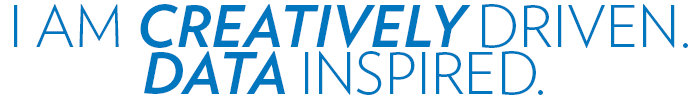
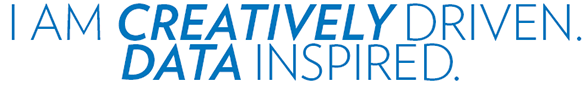
cambio de tagline y wunderlogo

diff --git a/dataportrait/static/js/animationv2.js b/dataportrait/static/js/animationv2.js
@@ -6,11 +6,8 @@ var ctx2;
 var ctx3;
 var WIDTH = 900;
 var HEIGHT = 900;
-/* image is always square 
-if(window.innerWidth < WIDTH){
-    WIDTH = window.innerWidth;
-    HEIGHT = window.innerWidth;
-}*/
+var MAXSCREENWIDTH = 900;
+var padding = 20;
 var layerCount = 5;
 var loadedImages = 0;
 
@@ -22,25 +19,25 @@ var pos1 = [0, 0];
 
 //second layer
 var layer2Img = new Image();
-layer1Img.onload = synchedInit;
+layer2Img.onload = synchedInit;
 layer2Img.src = layer3Src;
 var pos2 = [0, 0];
 
 //third layer
 var layer3Img = new Image();
-layer1Img.onload = synchedInit;
+layer3Img.onload = synchedInit;
 layer3Img.src = layer4Src;
 var pos4 = [0, 0];
 
 //fourth layer Opacity animation
 var layer4Img = new Image();
-layer1Img.onload = synchedInit;
+layer4Img.onload = synchedInit;
 layer4Img.src = layer2Src;
 var op4 = 0;
 
 //fifth layer
 var layer5Img = new Image();
-layer1Img.onload = synchedInit;
+layer5Img.onload = synchedInit;
 layer5Img.src = layer5Src;
 var op5 = 0;
 
@@ -55,21 +52,56 @@ function synchedInit(){
 function init() {
     layer1 = document.getElementById("layer1");
     ctx1 = layer1.getContext("2d");
-    pos1 = [0, layer1.height]
 
     layer2 = document.getElementById("layer2");
     ctx2 = layer2.getContext("2d");
-    pos2 = [0, -layer2.height]
 
     layer3 = document.getElementById("layer3");
     ctx3 = layer3.getContext("2d");
-    pos3 = [0, -layer3.height]
 
     layer4 = document.getElementById("layer4");
     ctx4 = layer4.getContext("2d");
 
     layer5 = document.getElementById("layer5");
     ctx5 = layer5.getContext("2d");
+
+    /* image is always square */
+    if(window.innerWidth < MAXSCREENWIDTH){
+        var w = window.innerWidth -20;
+        layer1.width = w;
+        layer1.height = w;
+
+        layer2.width = w;
+        layer2.height = w;
+
+        layer3.width = w;
+        layer3.height = w;
+
+        layer4.width = w;
+        layer4.height = w;
+
+        layer5.width = w;
+        layer5.height = w;
+    }else{
+        layer1.width = MAXSCREENWIDTH;
+        layer1.height = MAXSCREENWIDTH;
+
+        layer2.width = MAXSCREENWIDTH;
+        layer2.height = MAXSCREENWIDTH;
+
+        layer3.width = MAXSCREENWIDTH;
+        layer3.height = MAXSCREENWIDTH;
+
+        layer4.width = MAXSCREENWIDTH;
+        layer4.height = MAXSCREENWIDTH;
+
+        layer5.width = MAXSCREENWIDTH;
+        layer5.height = MAXSCREENWIDTH;
+    }
+
+    pos1 = [0, (layer1.height-1)];
+    pos2 = [0, layer2.height]
+    pos3 = [0, layer3.height];
 
     setInterval(drawAll, 10);
     setTimeout(function(){
@@ -88,49 +120,33 @@ function drawOp(){
     draw4();
 }
 
-/*function draw1() {
-    ctx1.clearRect(0, 0, WIDTH, HEIGHT);
-    ctx1.fillStyle = "#FAF7F8";
-    ctx1.beginPath();
-    ctx1.rect(0,0,WIDTH,HEIGHT);
-    ctx1.closePath();
-    ctx1.fill();
-    ctx1.fillStyle = "#444444";
-    ctx1.beginPath();
-    ctx1.arc(x, y, 10, 0, Math.PI*2, true);
-    ctx1.closePath();
-    ctx1.fill();
-
-    if (x + dx > WIDTH || x + dx < 0)
-        dx = -dx;
-    if (y + dy > HEIGHT || y + dy < 0)
-        dy = -dy;
-
-    x += dx;
-    y += dy;
-}*/
-
 function draw1() {
-    if(pos1[1] > 0){
+    if(pos1[1] > 1){
         ctx1.clearRect(0, 0, WIDTH, HEIGHT);
-        ctx1.drawImage(layer1Img, pos1[0], pos1[1], WIDTH, HEIGHT, 0, 0, layer1.width, layer1.height);
-        pos1[1] -=1;
+        var x = parseInt(pos1[0]);
+        var y = parseInt(pos1[1]);
+        ctx1.drawImage(layer1Img, x, y, WIDTH - x, HEIGHT - y, 0, 0, layer1.width-x, layer1.height- y);
+        pos1[1] -=2;
     }
 }
 
 function draw2() {
-    if(pos2[1] < 0){
+    if(pos2[1] > 0){
         ctx2.clearRect(0, 0, WIDTH, HEIGHT);
-        ctx2.drawImage(layer2Img, pos2[0], pos2[1], WIDTH, HEIGHT, 0, 0, layer2.width, layer2.height);
-        pos2[1] +=1;
+        var x = parseInt(pos2[0]);
+        var y = parseInt(pos2[1]);
+        ctx2.drawImage(layer2Img, pos2[0], pos2[1], WIDTH, HEIGHT);
+        pos2[1] -=2;
     }
 }
 
 function draw3() {
-    if(pos3[1] < 0){
+    if(pos3[1] > 0){
         ctx3.clearRect(0, 0, WIDTH, HEIGHT);
-        ctx3.drawImage(layer3Img, pos3[0], pos3[1], WIDTH, HEIGHT, 0, 0, layer3.width, layer3.height);
-        pos3[1] +=1;
+        var x = parseInt(pos3[0]);
+        var y = parseInt(pos3[1]);
+        ctx3.drawImage(layer3Img, pos3[0], pos3[1], WIDTH, HEIGHT);
+        pos3[1] -=2;
     }
 }
 

diff --git a/dataportrait/templates/photo_generator.html b/dataportrait/templates/photo_generator.html
@@ -29,7 +29,7 @@
     {% if photo_path %}
     <div class="row">
         <div class="col-xs-12 text-center">
-            <!--<img src="{{ photo_path }}" alt="#MyDataPortrait" style="max-width:500px">-->
+            <img src="{{ photo_path }}" alt="#MyDataPortrait" style="max-width:500px">
             <!--<div class="layers">
                 <canvas id="layer1" class="layer" style="z-index:0"></canvas>
                 <canvas id="layer4" class="layer" style="z-index:10"></canvas>
